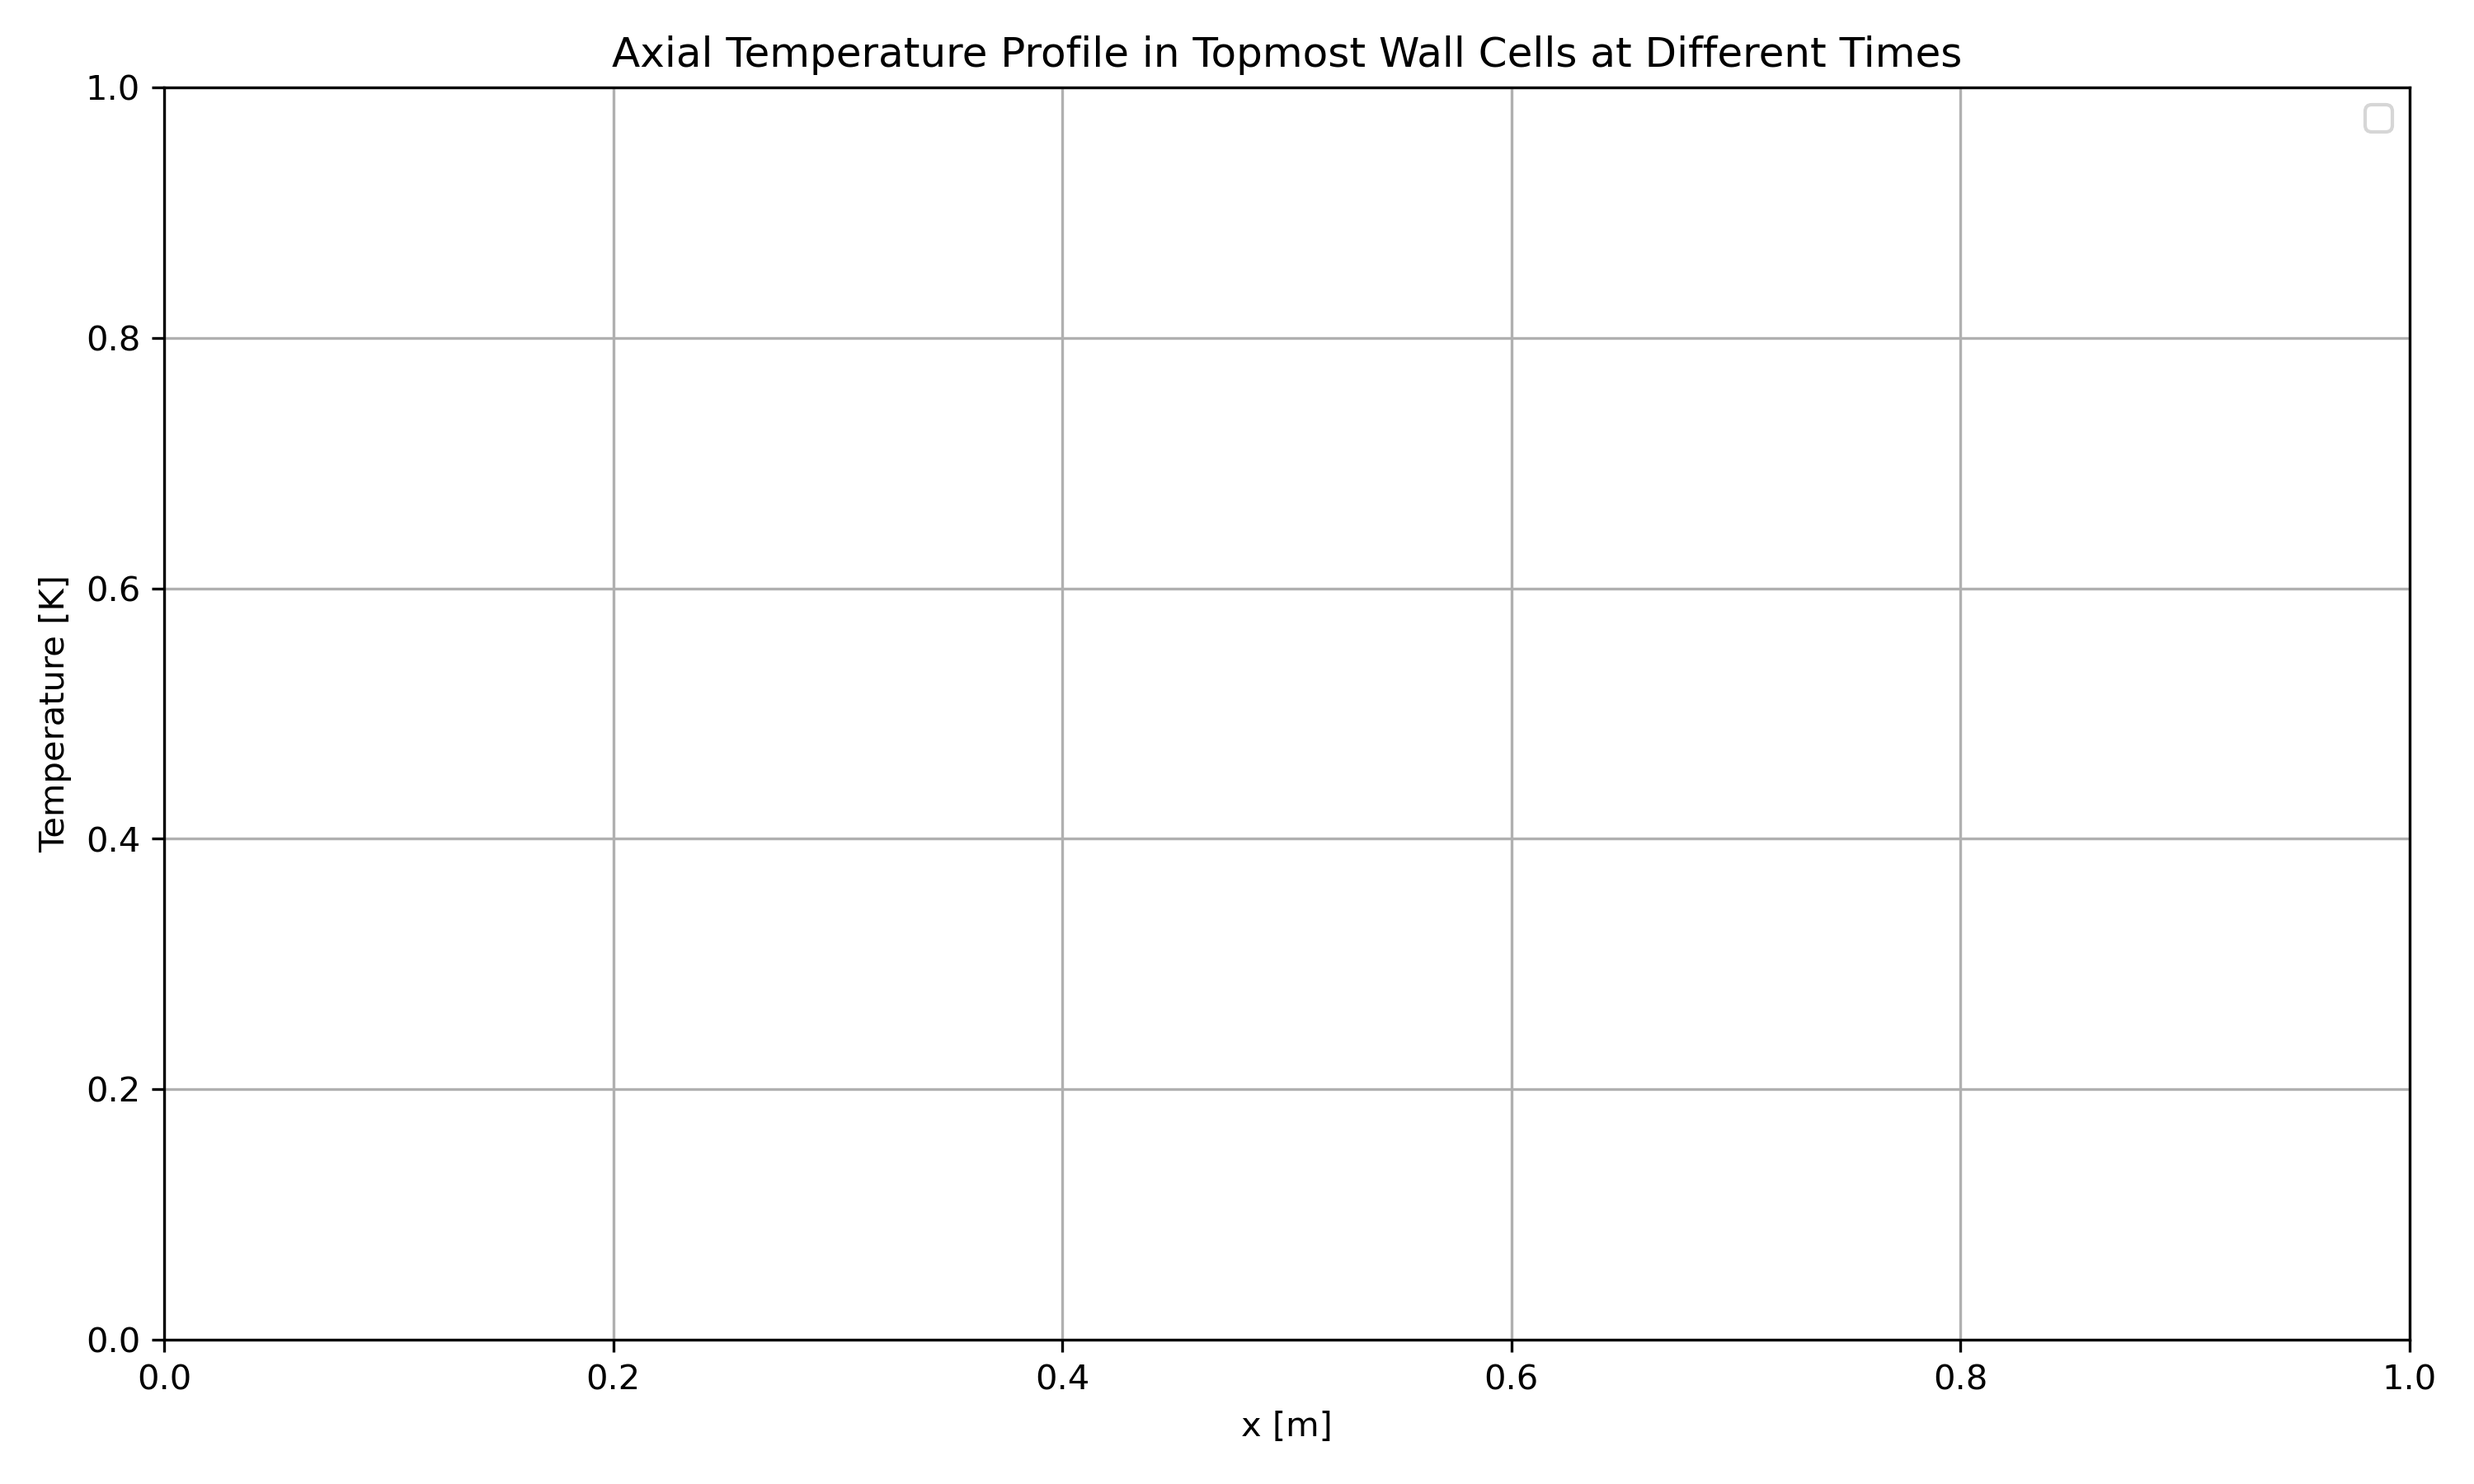
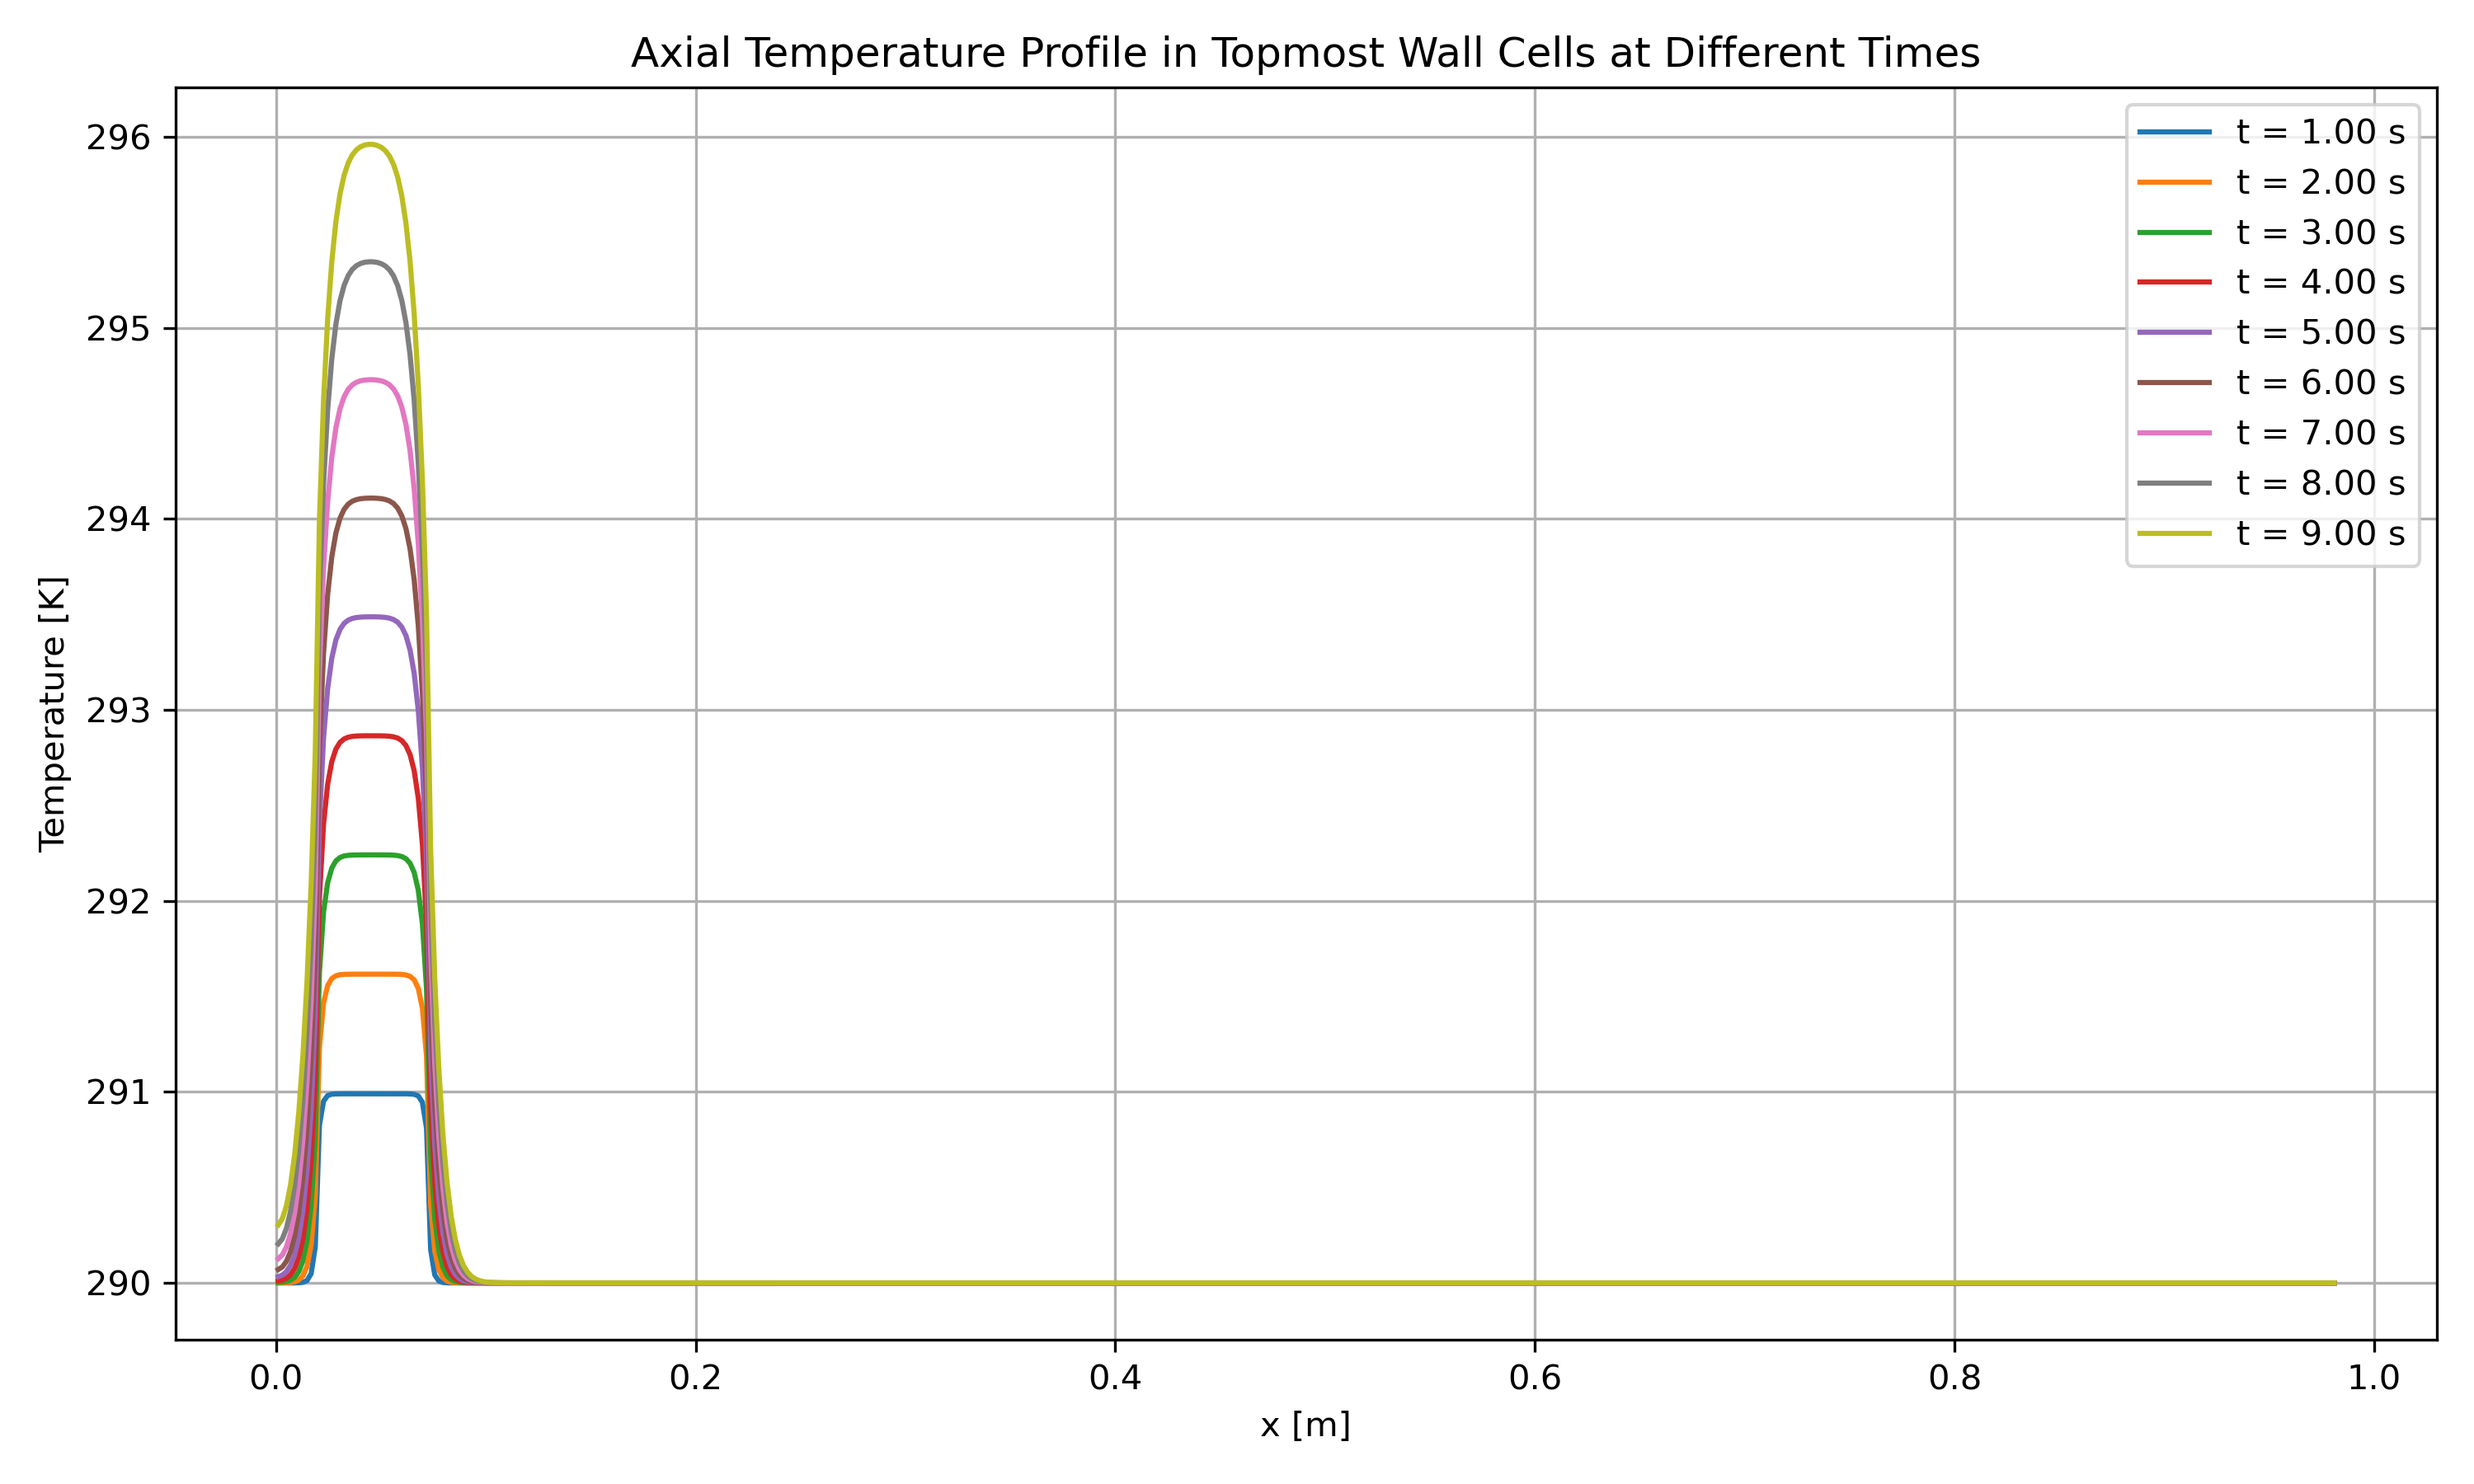
parallel analysis

diff --git a/src/2d/main_clean.py b/src/2d/main_clean.py
@@ -119,7 +119,7 @@ faces_evaporator = (mesh.facesTop & ((x_face < dimensions['L_input_right']) & (x
 faces_condenser = (mesh.facesTop & (x_face > (dimensions['L_e'] + dimensions['L_a'])) & (x_face < L_total))
 
 # Constant influx
-q = parameters['Q_input_flux']
+q = parameters['Q_input_flux'] * 3
 
 # Convective boundary condition
 Gamma = FaceVariable(mesh=mesh, value=k)
@@ -144,12 +144,12 @@ eq = (TransientTerm(coeff=rho*cp, var=T) == DiffusionTerm(coeff=Gamma, var=T) + 
 T.setValue(T_amb)  # Set initial temperature
 
 dt = 0.02
-t_end = 1800.0 # seconds
+t_end = 10.0 # seconds
 
 # viewer = Viewer(vars=T, title="Temperature Distribution")
 # viewer.plot()
 
-measure_times = [1, 30, 60, 120, 300, 400, 500, 600, 1000, 1400, 1500, 1600, 1700] # seconds
+measure_times = [1, 2, 3, 4, 5, 6, 7, 8, 9] # seconds
 
 # Find topmost wall cells: any face of the cell is a top face
 cellFaceIDs = npx.array(mesh.cellFaceIDs)  # shape: (nFacesPerCell, nCells)
@@ -222,6 +222,9 @@ plt.grid(True)
 plt.tight_layout()
 plt.savefig("plots/top_wall_axial_profiles.png", dpi=300)
 plt.show()
+
+# save the results
+npx.savez("results/2d_results.npz", T=T.value, x=x_cell, y=y_cell, time=actual_profile_times, profiles=profiles)
 
 from fipy import input
 input("Press Enter to continue...")
